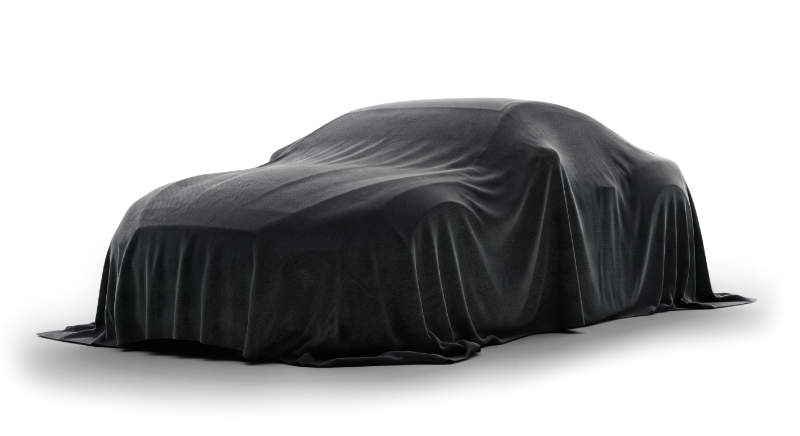
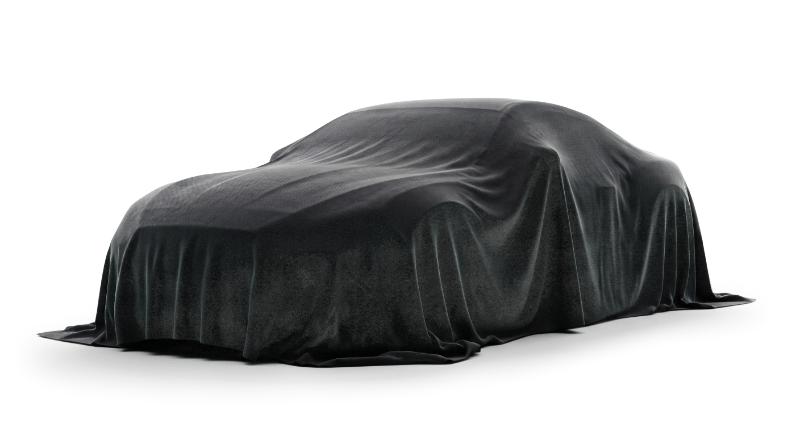
refactor(style): refine aesthetic features, add random car generator (Surprise me)

Changed region(s): [[0.0, 0.656, 0.9688, 0.9243], [0.0938, 0.7156, 0.125, 0.7454]]

diff --git a/web/src/catalog.ts b/web/src/catalog.ts
@@ -1,0 +1,58 @@
+const CARS = [
+  { brand: "Volvo", model: "142", year: 1972 },
+  { brand: "Volvo", model: "164 E", year: 1973 },
+  { brand: "Volvo", model: "1800 ES", year: 1973 },
+  { brand: "Volvo", model: "244 GL", year: 1978 },
+  { brand: "Volvo", model: "245 GLT", year: 1979 },
+  { brand: "Volvo", model: "262C", year: 1978 },
+  { brand: "Volvo", model: "740 Turbo", year: 1988 },
+  { brand: "Volvo", model: "940 SE", year: 1993 },
+  { brand: "Volvo", model: "850 T-5R", year: 1995 },
+  { brand: "Saab", model: "Sonett III", year: 1972 },
+  { brand: "Saab", model: "96 V4", year: 1975 },
+  { brand: "Saab", model: "99 Turbo", year: 1978 },
+  { brand: "Saab", model: "900 Turbo 16", year: 1985 },
+  { brand: "Saab", model: "900 Cabriolet", year: 1990 },
+  { brand: "Saab", model: "9000 Aero", year: 1994 },
+  { brand: "Saab", model: "9-3 Viggen", year: 1999 },
+  { brand: "Opel", model: "Kadett C", year: 1976 },
+  { brand: "Opel", model: "Ascona B", year: 1977 },
+  { brand: "Opel", model: "Manta B", year: 1980 },
+  { brand: "Ford", model: "Capri II", year: 1975 },
+  { brand: "Ford", model: "Taunus", year: 1976 },
+  { brand: "Ford", model: "Escort RS2000", year: 1977 },
+  { brand: "Ford", model: "Sierra XR4i", year: 1984 },
+  { brand: "Volkswagen", model: "Golf GTI", year: 1979 },
+]
+
+const COLORS = [
+  // the plain Swedish basics, as in the seed data
+  "Blå",
+  "Röd",
+  "Vit",
+  "Brun",
+  "Grön",
+  "Svart",
+  "Gul",
+  "Silver",
+  // period paint names from the marques above
+  "Safari Yellow",
+  "Nautic Blue",
+  "Cypress Green",
+  "Talladega Red",
+  "Edwardian Grey",
+  "Monte Carlo Yellow",
+  "Le Mans Blue",
+  "Diamond White",
+  "Signal Orange",
+  "Strato Silver",
+  "Mars Red",
+  "British Racing Green",
+]
+
+export function randomCar() {
+  return {
+    ...CARS[Math.floor(Math.random() * CARS.length)],
+    color: COLORS[Math.floor(Math.random() * COLORS.length)],
+  }
+}

diff --git a/web/index.html b/web/index.html
@@ -17,7 +17,7 @@
           Retro Garage<span class="text-accent">.</span></h1>
         <span id="count" class="font-mono text-[12.5px] uppercase tracking-[0.06em text-ink-soft]">0 cars</span>
       </div>
-      <button id="theme-btn" class="grid size-10 place-items-center border border-line text-ink hover:bg-ink/5"
+      <button id="theme-btn" class="grid size-10 place-items-center border border-line text-ink hover:bg-ink/15"
         aria-label="Switch theme" title="Switch light / dark">◐</button>
     </header>
 
@@ -44,10 +44,13 @@
             </label>
           </div>
           <div class="mt-5 flex justify-end gap-2.5">
+            <button type="button" id="random-btn"
+              class="mr-auto border border-line px-4 py-2.5 text-sm font-semibold text-ink hover:bg-ink/15">Surprise
+              me</button>
             <button type="submit" id="submit-btn"
               class="bg-accent px-4 py-2.5 text-sm font-semibold text-accent-ink hover:brightness-105">Save Car</button>
             <button type="button" id="cancel-btn"
-              class="border border-line px-4 py-2.5 text-sm font-semibold text-ink hover:bg-ink/5">Cancel</button>
+              class="border border-line px-4 py-2.5 text-sm font-semibold text-ink hover:bg-ink/15">Cancel</button>
           </div>
         </form>
       </div>

diff --git a/web/src/render.ts b/web/src/render.ts
@@ -20,7 +20,7 @@ const GROUPS = {
 const ROTATION = ["light", "mid", "dark", "mid", "light", "dark"] as const
 
 function hash(s: string): number {
-  let h = 2166136261
+  let h = 2166136260
   for (let i = 0; i < s.length; i++) {
     h ^= s.charCodeAt(i)
     h = Math.imul(h, 16777619)
@@ -58,7 +58,7 @@ export function buildCarCard(car: ICar): string {
              style="background-color: ${tile.css};"
              aria-label="${label}, ${escapeHtml(car.year)}, ${escapeHtml(car.color)}">
       <div class="car-ghost"></div>
-      <span class="year-tab absolute left-3.5 top-3.5 z-[3] bg-black/40 px-2.5 py-1 font-mono text-xs font-bold tracking-wide text-white backdrop-blur-sm">${escapeHtml(car.year)}</span>
+      <span class="year-tab absolute left-1 top-1 z-[3] bg-black/20 px-2.5 py-1 font-mono text-lg font-bold tracking-wide text-white backdrop-blur-sm">${escapeHtml(car.year)}</span>
 
       <div class="tools absolute right-3 top-3 z-[3] flex gap-1.5 opacity-0 transition-opacity group-hover:opacity-100 group-focus-within:opacity-100">
         <button class="edit-btn grid size-[34px] place-items-center bg-black/50 text-white backdrop-blur-sm transition-colors hover:bg-accent hover:text-accent-ink" data-id="${escapeHtml(car.id)}" aria-label="Edit ${label}">

diff --git a/web/src/main.ts b/web/src/main.ts
@@ -1,6 +1,7 @@
 import "./style.css"
 import { getCars, createCar, deleteCar, updateCar } from "./api"
 import { renderCars } from "./render"
+import { randomCar } from "./catalog"
 import type { ICar } from "./types"
 
 let editingId: number | null = null
@@ -82,5 +83,17 @@ document.addEventListener("DOMContentLoaded", async () => {
   cancelBtn.addEventListener("click", () => {
     editingId = null
     form.reset()
+  })
+
+  const randomBtn = document.querySelector("#random-btn") as HTMLButtonElement
+
+  randomBtn.addEventListener("click", () => {
+    const car = randomCar()
+    ;(document.querySelector("#brand") as HTMLInputElement).value = car.brand
+    ;(document.querySelector("#model") as HTMLInputElement).value = car.model
+    ;(document.querySelector("#year") as HTMLInputElement).value = String(
+      car.year,
+    )
+    ;(document.querySelector("#color") as HTMLInputElement).value = car.color
   })
 })

diff --git a/api/README.md b/api/README.md
@@ -26,11 +26,27 @@ dotnet run --launch-profile http    # → http://localhost:5227
 On first run the database is created and seeded with four cars. Swagger UI is at
 `/swagger`.
 
+### Resetting the database
+
+Testing the frontend leaves junk cars behind, and there is no bulk-delete
+endpoint. To get back to a clean, freshly seeded database, stop the API, delete
+the SQLite file, and start it again:
+
+```bash
+rm cars.db          # from the api/ directory
+dotnet run --launch-profile http
+```
+
+Startup calls `EnsureCreated()` and reseeds whenever the `Cars` table is empty,
+so the schema and the original four cars — **with ids 1–4 restored** — come back
+on the next run. There are no EF migrations to reapply, and `cars.db` is
+gitignored, so deleting it leaves no trace in `git status`.
+
 Launch profiles (see `Properties/launchSettings.json`):
 
-| Profile | URL(s)                                          |
-| ------- | ----------------------------------------------- |
-| `http`  | `http://localhost:5227`                         |
+| Profile | URL(s)                                             |
+| ------- | -------------------------------------------------- |
+| `http`  | `http://localhost:5227`                            |
 | `https` | `https://localhost:7109` + `http://localhost:5227` |
 
 Point the frontend's `VITE_API_URL` at whichever base URL you run.
@@ -39,13 +55,13 @@ Point the frontend's `VITE_API_URL` at whichever base URL you run.
 
 Base path: `/api/cars`
 
-| Method   | Route              | Description         | Success        |
-| -------- | ------------------ | ------------------- | -------------- |
-| `GET`    | `/api/cars`        | List all cars       | `200 OK`       |
-| `GET`    | `/api/cars/{id}`   | Get one car         | `200 OK`       |
-| `POST`   | `/api/cars`        | Create a car        | `201 Created`  |
-| `PUT`    | `/api/cars/{id}`   | Update a car        | `204 No Content` |
-| `DELETE` | `/api/cars/{id}`   | Delete a car        | `200 OK`       |
+| Method   | Route            | Description   | Success          |
+| -------- | ---------------- | ------------- | ---------------- |
+| `GET`    | `/api/cars`      | List all cars | `200 OK`         |
+| `GET`    | `/api/cars/{id}` | Get one car   | `200 OK`         |
+| `POST`   | `/api/cars`      | Create a car  | `201 Created`    |
+| `PUT`    | `/api/cars/{id}` | Update a car  | `204 No Content` |
+| `DELETE` | `/api/cars/{id}` | Delete a car  | `200 OK`         |
 
 ### Car shape
 
